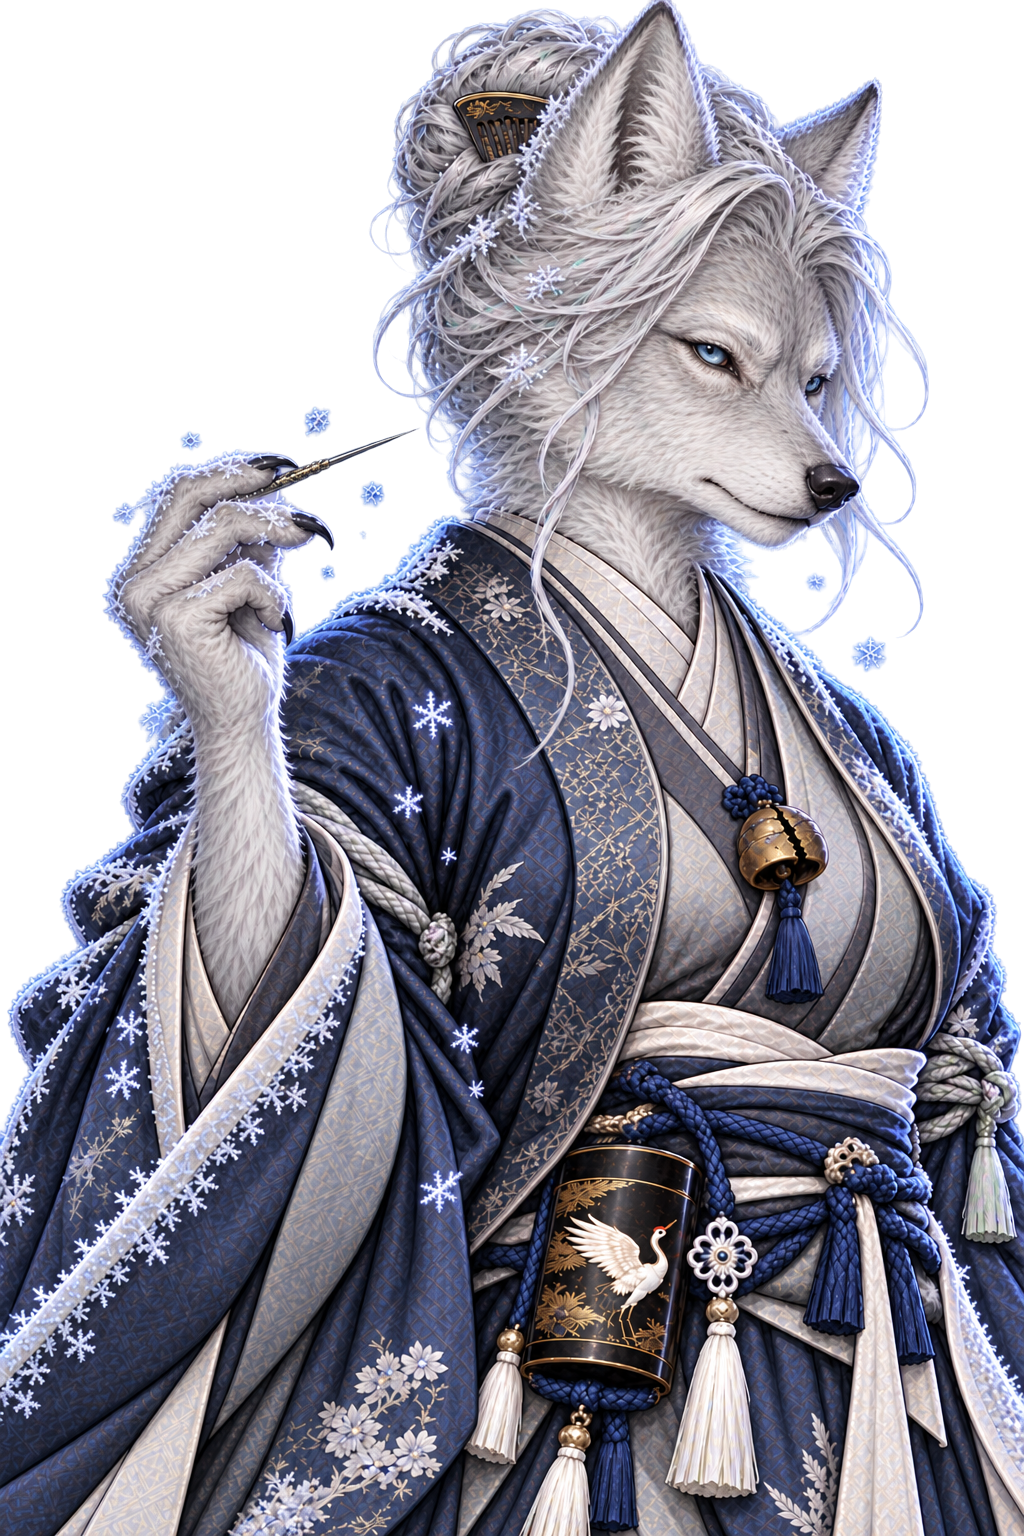
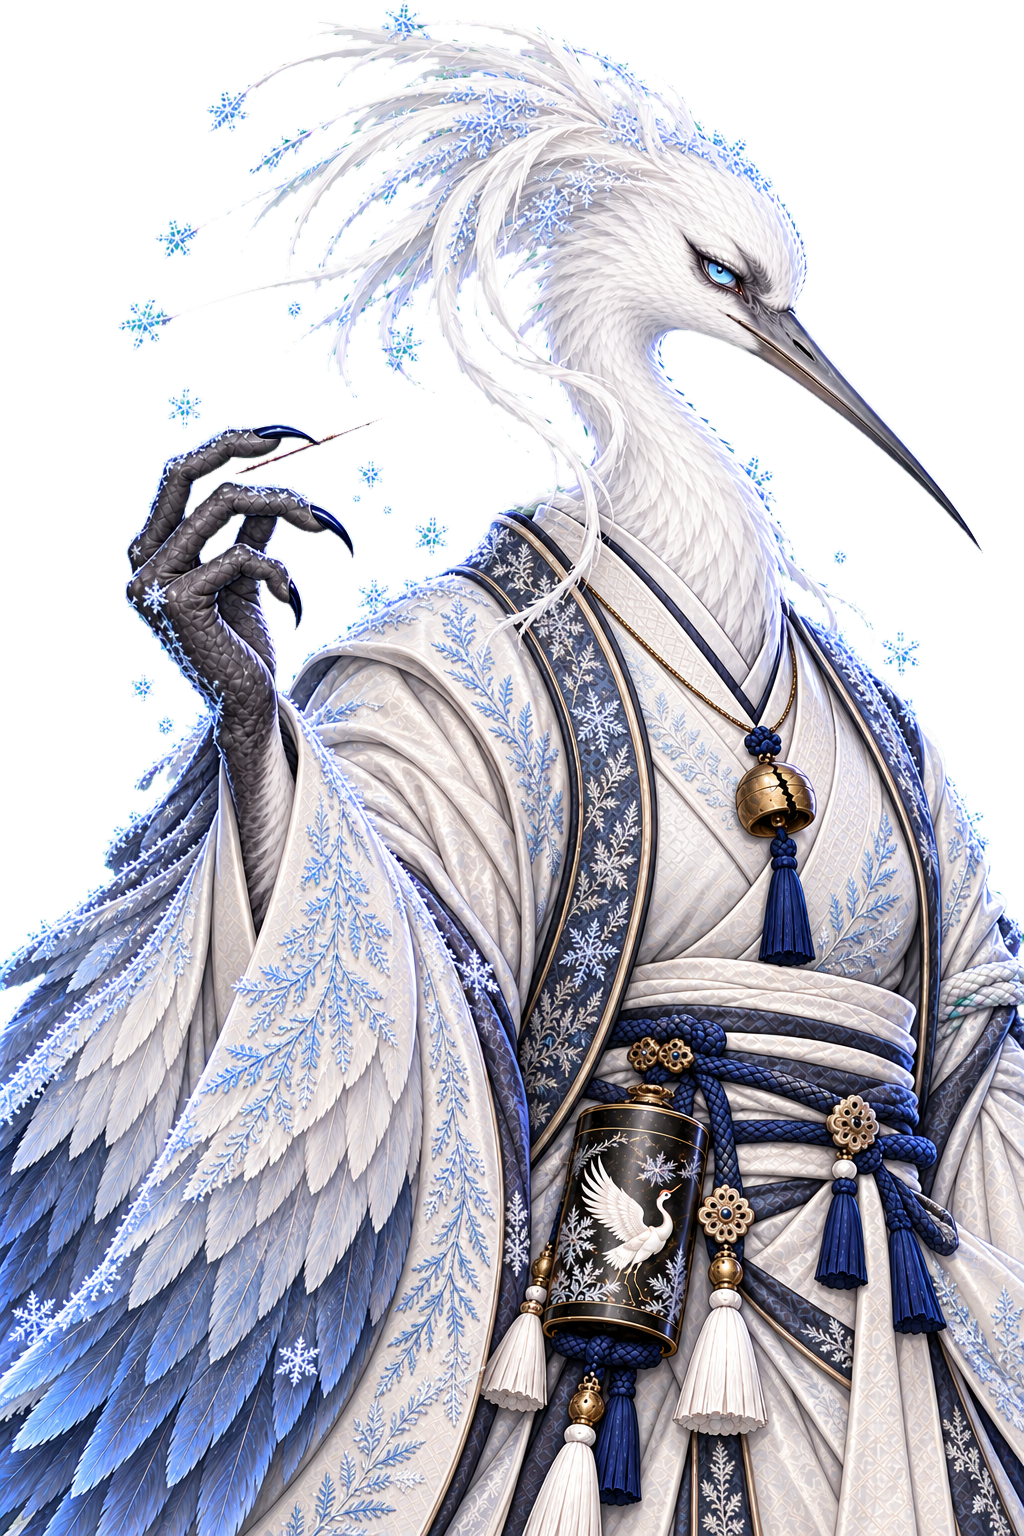
Mizore repainted as a white crane-woman: crane head with frosted crest, feathered sleeves, talon hands holding the needle, white court robes with slate trim, bell and crane inro (Full shows crane legs and a sash tail); talk-scene framing retuned for the taller crest

diff --git a/Assets/Scripts/Core/GameManager.Talk.cs b/Assets/Scripts/Core/GameManager.Talk.cs
@@ -312,10 +312,11 @@ public partial class GameManager
                 return new DialogueScene.Speaker { name = "Oni", epithet = "The Ronin", colour = OniColour, art = oniCloseup,
                     focus = new Vector2(0.46f, 0.236f), height = ScenePortraitHeight * 1.1f, right = true };
             // The souls' paintings fill their canvases edge to edge, so they're drawn smaller than Oni's to match faces;
-            // Mizore's wolf head is wider than the others', so she's drawn a little smaller, and Asagi a little larger to
-            // stand her bowl up near Oni's eyes. Akagane, the captain, stands screen-tall, a little taller than Oni.
+            // Mizore's crane crest towers over her eyes, so she's drawn a little larger to bring them level with Oni's,
+            // and Asagi a little larger too, to stand her bowl up near his eyes. Akagane, the captain, stands screen-tall,
+            // a little taller than Oni.
             case "Akagane": return SoulSpeaker(name, "Captain of the Vanguard", Element.Fire, akaganeCloseup, new Vector2(0.62f, 0.24f), 1f);
-            case "Mizore": return SoulSpeaker(name, "The Court Physician", Element.Water, mizoreCloseup, new Vector2(0.62f, 0.23f), 0.78f);
+            case "Mizore": return SoulSpeaker(name, "The Court Physician", Element.Water, mizoreCloseup, new Vector2(0.72f, 0.18f), 0.95f);
             case "Hibiki": return SoulSpeaker(name, "The Village Drummer", Element.Lightning, hibikiCloseup, new Vector2(0.67f, 0.22f));
             case "Asagi": return SoulSpeaker(name, "The Pond Physician", Element.Tide, asagiCloseup, new Vector2(0.63f, 0.26f), 0.88f);
             // He's small, so his painting is drawn a little smaller than the souls'; his pixel frames stand in without it.
